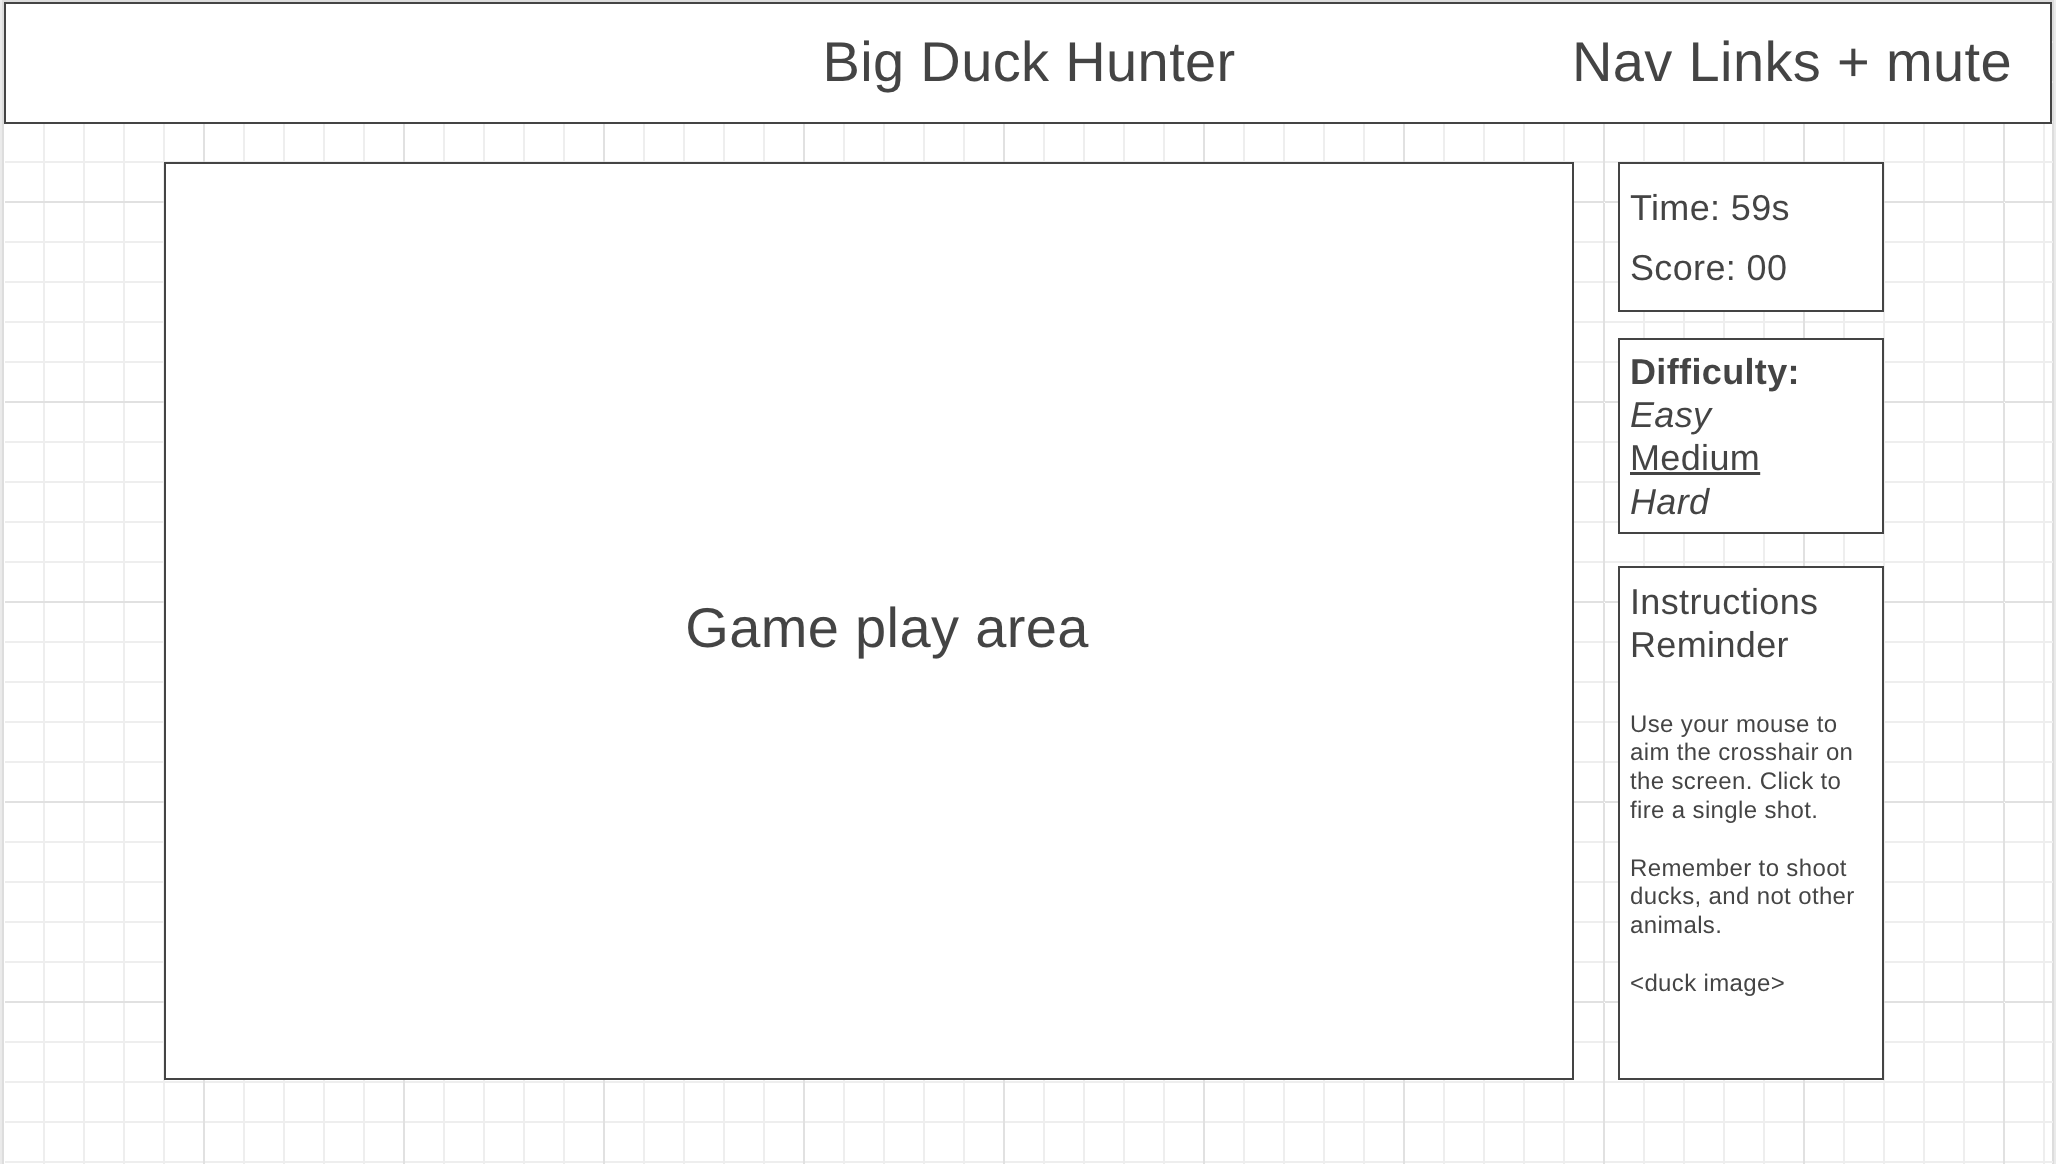
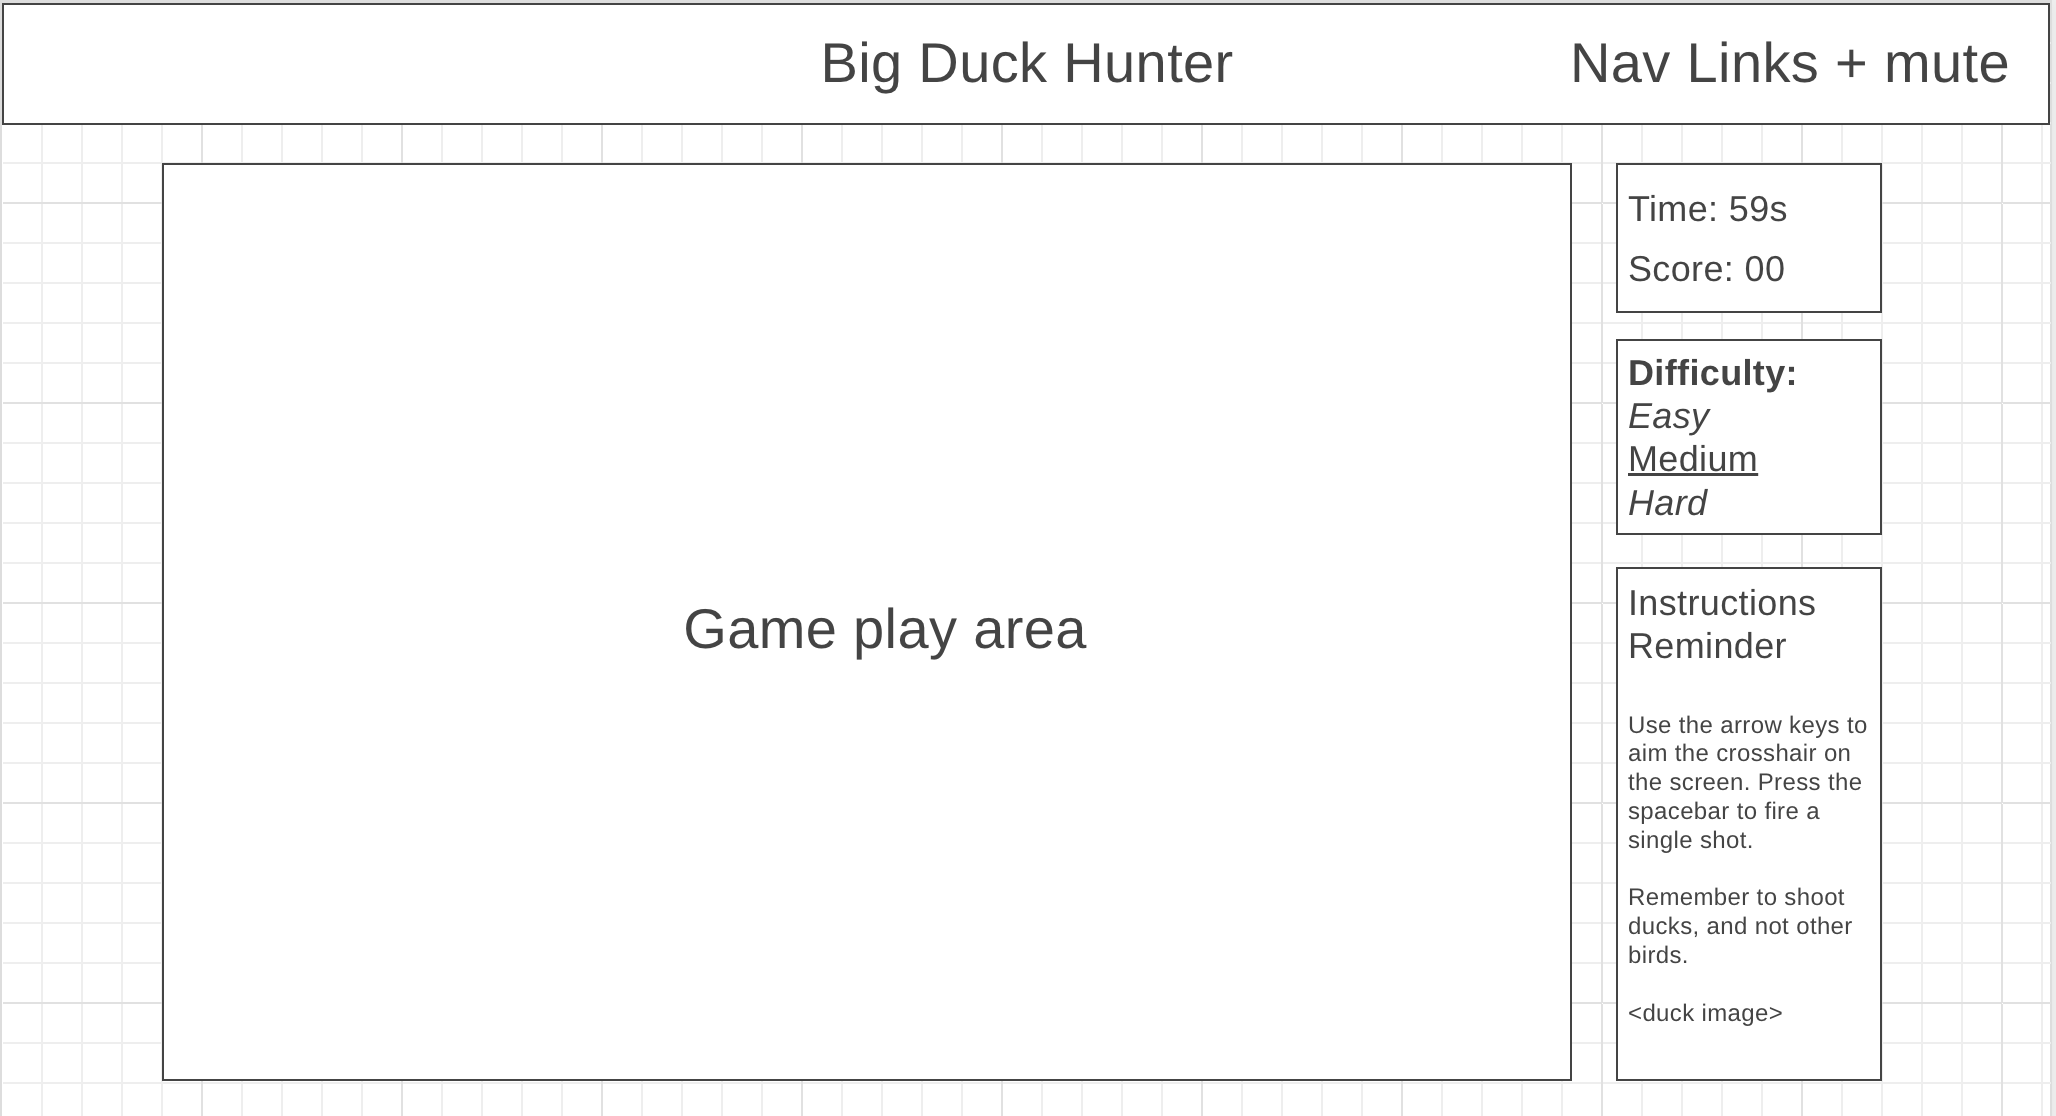
change to arrow keys

diff --git a/README.md b/README.md
@@ -2,16 +2,17 @@
 
 ## Background
 
-The Big Duck Hunter game allows a user to play as a hunter that is attempting to shoot the ducks in a gameplay environment. The user, however, does not want to shoot other types of birds. The user controls the aim of its rifle by moving the mouse around the gameplay area. Clicking on a point on the screen fires a shot at that area. Each duck that a user shoots awards the user one point. However, shooting any bird besides a duck causes a user to instantly lose the game. 
+The Big Duck Hunter game allows a user to play as a hunter that is attempting to shoot the ducks in a gameplay environment. The user, however, does not want to shoot other types of birds. The user controls the aim of its rifle using the arrow keys to move a crosshair around the gameplay area. Pressing the space bar will fire a shot where the crosshair is currently positioned in the gameplay area. The user will be awarded one point for each duck they shoot. However, if the user shoots any bird besides a duck, they will instantly lose the game. 
 
-The user is given 60 seconds to shoot as many ducks as they can without shooting other birds. The game also features the ability for the user to change the difficulty of the game.
+The user is given 60 seconds to shoot as many ducks as they can without shooting other birds. The game also features the ability for the user to change the difficulty of the game. The user's score and a timer are displayed ot the user during gameplay.
 
 ## Functionality & MVPs
 
 In Big Duck Hunter, users will be able to:
 
 - View a gameplay area with flying birds of various types as well as obstacles that birds fly behind.
-- Mouse over the gameplay area with a crosshair pointer to aim at different birds in the game. Users will be able to shoot the different birds in the game. Shooting a duck will award the user a single point, however shooting other types of birds will cause the player to immediately lose the game.
+- Move their crosshair around the gameplay area using the arrow keys to aim at different birds in the game. Users will be able to shoot the different birds in the game with the spacebar. 
+- Earn a point by shooting a duck. Shooting any other type of birds will cause the player to immediately lose the game.
 - Choose the level of difficulty of the game, which will change the flight speed, number of shootable birds, and number of shootable obstacles present in the gameplay area.
 - View a scoreboard and timer that displays the user's score. Running out of time will end the game for the user.
 
